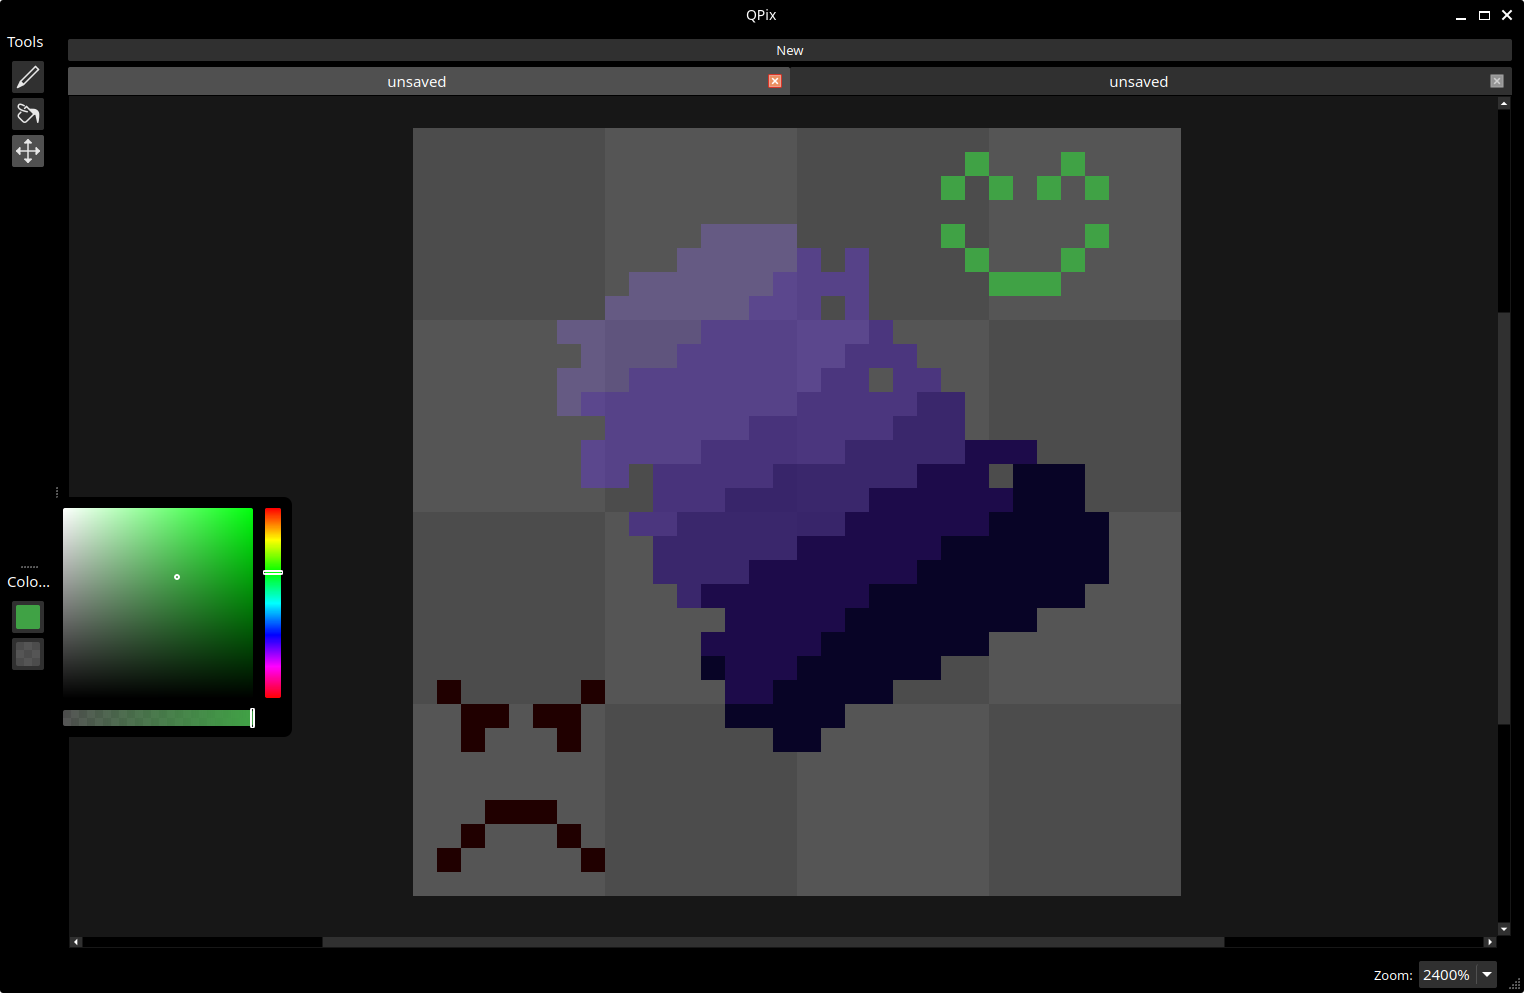
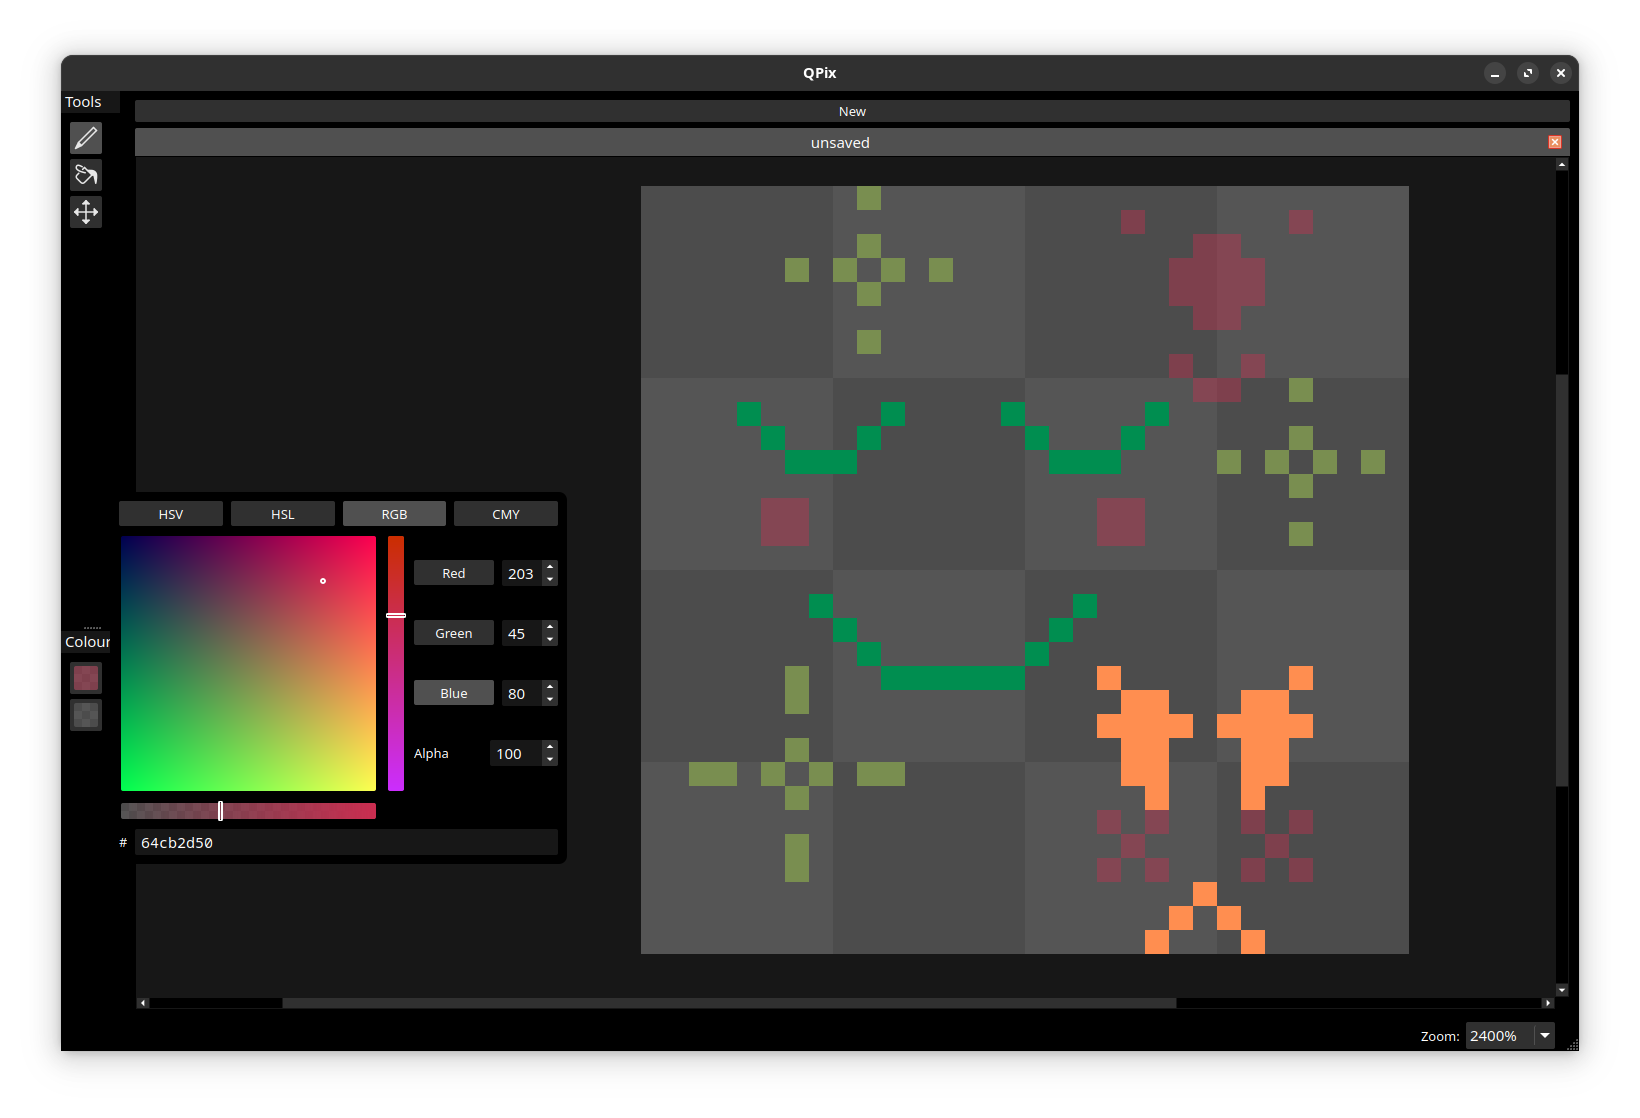
The "tabs" for changing colour model and colour channel arrangement across sliders now highlights the active one; Styled QSpinBoxes; Updated README & screenshot

diff --git a/src/ui/widgets/colourselector/ColourSelector.cpp b/src/ui/widgets/colourselector/ColourSelector.cpp
@@ -12,6 +12,9 @@
 #include "utils/Utils.h"
 #include <iostream>
 #include <QSpinBox>
+#include <QAction>
+#include <QActionGroup>
+#include <QToolButton>
 
 const int SLIDER_WIDTH = 32;
 
@@ -97,53 +100,96 @@ ColourSelector::ColourSelector(QColor colour, QWidget* parent) : QWidget(parent)
 	});
 	connect(m_HexEntry, &QLineEdit::editingFinished, this, [this]() {
 		this->enableEventLock();
-		// // Set the colour selection model temporarily to RGB so that calculations are done in RGB space rather than
-		// // the space of the colour model, which may not be able to represent the entered colour, leading to errors
-		// ColourSelectionModel selModel = this->m_SelectionModel;
-		// this->m_SelectionModel = ColourSelectionModel::Rgb;
 		this->setColour(QColor::fromString(QString("#").append(m_HexEntry->text())));
-		// this->m_SelectionModel = selModel;
-		// // But, then, we have to update the UI again
 		this->disableEventLock();
 	});
 
 	// Colour model switch buttons
-	QPushButton* hsvButton = new QPushButton("HSV");
-	QPushButton* hslButton = new QPushButton("HSL");
-	QPushButton* rgbButton = new QPushButton("RGB");
-	QPushButton* cmyButton = new QPushButton("CMY");
+	m_SelectionModelActions = new QActionGroup(nullptr);
+	m_SelectionModelActions->setExclusive(true);
 
-	connect(hsvButton, &QPushButton::clicked, this, [this](bool checked) {
-		this->setColourSelectionModel(ColourSelectionModel::Hsv);
+	m_HsvAction = new QAction("HSV", m_SelectionModelActions);
+	m_HsvAction->setCheckable(true);
+	QToolButton* hsvButton = new QToolButton();
+	hsvButton->setDefaultAction(m_HsvAction);
+	hsvButton->setSizePolicy(QSizePolicy(QSizePolicy::Expanding, QSizePolicy::Fixed));
+
+	m_HslAction = new QAction("HSL", m_SelectionModelActions);
+	m_HslAction->setCheckable(true);
+	QToolButton* hslButton = new QToolButton();
+	hslButton->setDefaultAction(m_HslAction);
+	hslButton->setSizePolicy(QSizePolicy(QSizePolicy::Expanding, QSizePolicy::Fixed));
+
+	m_RgbAction = new QAction("RGB", m_SelectionModelActions);
+	m_RgbAction->setCheckable(true);
+	QToolButton* rgbButton = new QToolButton();
+	rgbButton->setDefaultAction(m_RgbAction);
+	rgbButton->setSizePolicy(QSizePolicy(QSizePolicy::Expanding, QSizePolicy::Fixed));
+
+	m_CmyAction = new QAction("CMY", m_SelectionModelActions);
+	m_CmyAction->setCheckable(true);
+	QToolButton* cmyButton = new QToolButton();
+	cmyButton->setDefaultAction(m_CmyAction);
+	cmyButton->setSizePolicy(QSizePolicy(QSizePolicy::Expanding, QSizePolicy::Fixed));
+
+
+	connect(m_HsvAction, &QAction::toggled, this, [this](bool checked) {
+		if(checked) {
+			this->setColourSelectionModel(ColourSelectionModel::Hsv);
+		}
 	});
-	connect(hslButton, &QPushButton::clicked, this, [this](bool checked) {
-		this->setColourSelectionModel(ColourSelectionModel::Hsl);
+	connect(m_HslAction, &QAction::toggled, this, [this](bool checked) {
+		if(checked) {
+			this->setColourSelectionModel(ColourSelectionModel::Hsl);
+		}
 	});
-	connect(rgbButton, &QPushButton::clicked, this, [this](bool checked) {
-		this->setColourSelectionModel(ColourSelectionModel::Rgb);
+	connect(m_RgbAction, &QAction::toggled, this, [this](bool checked) {
+		if(checked) {
+			this->setColourSelectionModel(ColourSelectionModel::Rgb);
+		}
 	});
-	connect(cmyButton, &QPushButton::clicked, this, [this](bool checked) {
-		this->setColourSelectionModel(ColourSelectionModel::Cmy);
+	connect(m_CmyAction, &QAction::toggled, this, [this](bool checked) {
+		if(checked) {
+			this->setColourSelectionModel(ColourSelectionModel::Cmy);
+		}
 	});
 
-	// Slider arrangement switch buttons (the text will not stay)
-	m_AbcButton = new QPushButton("ABC");
-	m_AbcButton->setFixedWidth(80);
+	// Slider arrangement switch actions/buttons (the text will not stay)
+	m_ArrangementActions = new QActionGroup(nullptr);
+	m_ArrangementActions->setExclusive(true);
 
-	m_BacButton = new QPushButton("BAC");
-	m_BacButton->setFixedWidth(80);
+	m_AbcAction = new QAction("ABC", m_ArrangementActions);
+	m_AbcAction->setCheckable(true);
+	QToolButton* abcButton = new QToolButton();
+	abcButton->setDefaultAction(m_AbcAction);
+	abcButton->setFixedWidth(80);
 
-	m_CabButton = new QPushButton("CAB");
-	m_CabButton->setFixedWidth(80);
+	m_BacAction = new QAction("BAC", m_ArrangementActions);
+	m_BacAction->setCheckable(true);
+	QToolButton* bacButton = new QToolButton();
+	bacButton->setDefaultAction(m_BacAction);
+	bacButton->setFixedWidth(80);
 
-	connect(m_AbcButton, &QPushButton::clicked, this, [this](bool checked) {
-		this->setSliderArrangement(SliderArrangement::Abc);
+	m_CabAction = new QAction("CAB", m_ArrangementActions);
+	m_CabAction->setCheckable(true);
+	QToolButton* cabButton = new QToolButton();
+	cabButton->setDefaultAction(m_CabAction);
+	cabButton->setFixedWidth(80);
+
+	connect(m_AbcAction, &QAction::toggled, this, [this](bool checked) {
+		if(checked) {
+			this->setSliderArrangement(SliderArrangement::Abc);
+		}
 	});
-	connect(m_BacButton, &QPushButton::clicked, this, [this](bool checked) {
-		this->setSliderArrangement(SliderArrangement::Bac);
+	connect(m_BacAction, &QAction::toggled, this, [this](bool checked) {
+		if(checked) {
+			this->setSliderArrangement(SliderArrangement::Bac);
+		}
 	});
-	connect(m_CabButton, &QPushButton::clicked, this, [this](bool checked) {
-		this->setSliderArrangement(SliderArrangement::Cab);
+	connect(m_CabAction, &QAction::toggled, this, [this](bool checked) {
+		if(checked) {
+			this->setSliderArrangement(SliderArrangement::Cab);
+		}
 	});
 
 	m_SpinA = new QSpinBox();
@@ -185,6 +231,7 @@ ColourSelector::ColourSelector(QColor colour, QWidget* parent) : QWidget(parent)
 
 	this->updateImages(true, true, true);
 	this->setColourSelectionModel(ColourSelectionModel::Rgb);
+	this->setSliderArrangement(SliderArrangement::Abc);
 
 	QGridLayout* layout = new QGridLayout();
 	layout->setSpacing(8);
@@ -196,23 +243,19 @@ ColourSelector::ColourSelector(QColor colour, QWidget* parent) : QWidget(parent)
 	modelSelBox->addWidget(cmyButton);
 
 	QHBoxLayout* rowA = new QHBoxLayout();
-	rowA->addWidget(m_AbcButton);
-	rowA->addSpacing(4);
+	rowA->addWidget(abcButton);
 	rowA->addWidget(m_SpinA);
 
 	QHBoxLayout* rowB = new QHBoxLayout();
-	rowB->addWidget(m_BacButton);
-	rowB->addSpacing(4);
+	rowB->addWidget(bacButton);
 	rowB->addWidget(m_SpinB);
 
 	QHBoxLayout* rowC = new QHBoxLayout();
-	rowC->addWidget(m_CabButton);
-	rowC->addSpacing(4);
+	rowC->addWidget(cabButton);
 	rowC->addWidget(m_SpinC);
 
 	QHBoxLayout* rowAlpha = new QHBoxLayout();
 	rowAlpha->addWidget(new QLabel("Alpha"));
-	rowAlpha->addSpacing(4);
 	rowAlpha->addWidget(m_SpinAlpha);
 
 	QVBoxLayout* modelEditorBox = new QVBoxLayout();
@@ -241,6 +284,8 @@ ColourSelector::~ColourSelector() {
 	delete m_SquareImg;
 	delete m_AlphaSliderImg;
 	delete m_PrimarySliderImg;
+	m_ArrangementActions->deleteLater();
+	m_SelectionModelActions->deleteLater();
 }
 
 // TODO: Update to work with different models - there may always be a risk of infinite recursion here, as it relies on colours being 1:1 between different colour models
@@ -286,27 +331,35 @@ void ColourSelector::setColourSelectionModel(ColourSelectionModel model) {
 	// TODO: Probably put in dedicated function
 	switch(m_SelectionModel) {
 		case ColourSelectionModel::Hsv: {
-			m_AbcButton->setText("Hue");
-			m_BacButton->setText("Saturation");
-			m_CabButton->setText("Value");
+			m_AbcAction->setText("Hue");
+			m_BacAction->setText("Saturation");
+			m_CabAction->setText("Value");
+
+			m_HsvAction->setChecked(true);
 			break;
 		}
 		case ColourSelectionModel::Hsl: {
-			m_AbcButton->setText("Hue");
-			m_BacButton->setText("Saturation");
-			m_CabButton->setText("Lightness");
+			m_AbcAction->setText("Hue");
+			m_BacAction->setText("Saturation");
+			m_CabAction->setText("Lightness");
+
+			m_HslAction->setChecked(true);
 			break;
 		}
 		case ColourSelectionModel::Rgb: {
-			m_AbcButton->setText("Red");
-			m_BacButton->setText("Green");
-			m_CabButton->setText("Blue");
+			m_AbcAction->setText("Red");
+			m_BacAction->setText("Green");
+			m_CabAction->setText("Blue");
+
+			m_RgbAction->setChecked(true);
 			break;
 		}
 		case ColourSelectionModel::Cmy: {
-			m_AbcButton->setText("Cyan");
-			m_BacButton->setText("Magenta");
-			m_CabButton->setText("Yellow");
+			m_AbcAction->setText("Cyan");
+			m_BacAction->setText("Magenta");
+			m_CabAction->setText("Yellow");
+
+			m_CmyAction->setChecked(true);
 			break;
 		}
 	}
@@ -322,6 +375,21 @@ void ColourSelector::setColourSelectionModel(ColourSelectionModel model) {
 void ColourSelector::setSliderArrangement(SliderArrangement arrangement) {
 	emit sliderArrangementChanged(arrangement);
 	m_Arrangement = arrangement;
+
+	switch(m_Arrangement) {
+		case SliderArrangement::Abc: {
+			m_AbcAction->setChecked(true);
+			break;
+		}
+		case SliderArrangement::Bac: {
+			m_BacAction->setChecked(true);
+			break;
+		}
+		case SliderArrangement::Cab: {
+			m_CabAction->setChecked(true);
+			break;
+		}
+	}
 
 	this->updateUiBounds();
 	this->updateImages(true, true, false);

diff --git a/src/ui/widgets/colourselector/ColourSelector.h b/src/ui/widgets/colourselector/ColourSelector.h
@@ -26,7 +26,8 @@ class ColourSlider;
 class ColourBoxSlider;
 class QValidator;
 class QSpinBox;
-class QPushButton;
+class QAction;
+class QActionGroup;
 
 struct SliderInfo;
 struct AbcaQuad;
@@ -90,9 +91,18 @@ private:
 	ColourSlider* m_AlphaSlider;
 	QLineEdit* m_HexEntry;
 	QValidator* m_HexEntryValidator;
-	QPushButton* m_AbcButton;
-	QPushButton* m_BacButton;
-	QPushButton* m_CabButton;
+
+	QActionGroup* m_SelectionModelActions;
+	QAction* m_HsvAction;
+	QAction* m_HslAction;
+	QAction* m_RgbAction;
+	QAction* m_CmyAction;
+
+	QActionGroup* m_ArrangementActions;
+	QAction* m_AbcAction;
+	QAction* m_BacAction;
+	QAction* m_CabAction;
+
 	QSpinBox* m_SpinA;
 	QSpinBox* m_SpinB;
 	QSpinBox* m_SpinC;

diff --git a/README.md b/README.md
@@ -6,6 +6,16 @@ A simple little pixel art editor, using Qt Widgets. Focusing on performance and 
 
 ![Screenshot](screenshots/screenshot_latest.png)
 
+## Features
+
+Note that since this is very incomplete, these features will likely change.
+
+- Fast CPU-rasterized scrollable & zoomable canvas (works similar to Aseprite)
+	- May change to being rendered fully on the GPU in the future but CPU works fine for now
+- Featureful colour picker
+	- Inspired by Java Swing's colour picker dialog
+- Nice looking handcrafted UI (imo) with a lot of care taken to make it coherent
+
 ## Compile And Run
 
 You need Qt6 and CMake 3.5 or higher (I'm using Qt 6.6.2 but it should work on earlier versions)
